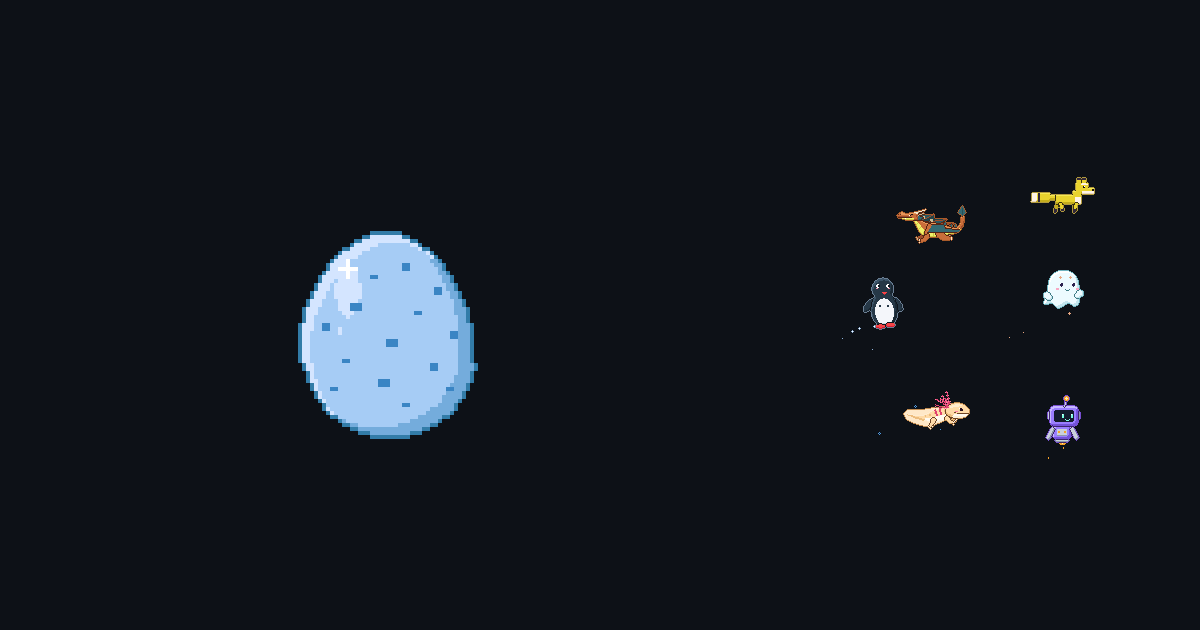
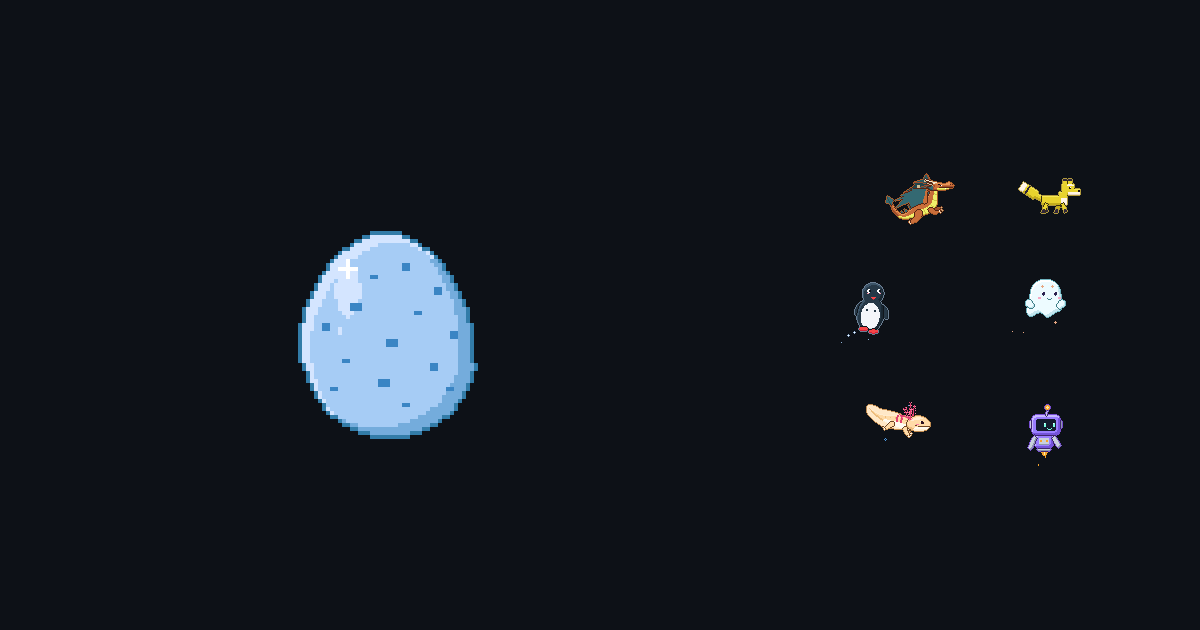
Pace README showcase animation at a natural speed
Subsample the showcase GIF across 48 frames with an 80ms delay and steady mood,
slowing the full animation loop from a frantic 0.72s to a smooth, natural 3.84s.
docs/showcase.gif remains compact at 579 KB (well under the 1 MB budget).

Resolves #43.

diff --git a/scripts/showcase.ts b/scripts/showcase.ts
@@ -20,9 +20,9 @@ export const OG_HEIGHT = 630;
 
 const CELL_SCALE = 2;
 const COLUMNS = 4;
-const FRAME_COUNT = 12;
-const FRAME_DELAY_MS = 60;
-const SHOWCASE_TRAITS: Traits = { stage: 3, marks: 2, mood: "lively" };
+const FRAME_COUNT = 48;
+const FRAME_DELAY_MS = 80;
+const SHOWCASE_TRAITS: Traits = { stage: 3, marks: 2, mood: "steady" };
 const OG_BACKGROUND: readonly [number, number, number] = [0x0d, 0x11, 0x17]; // GitHub's dark page
 
 /** The banner's cells: the egg, then signature critters in distinct language palettes. */
